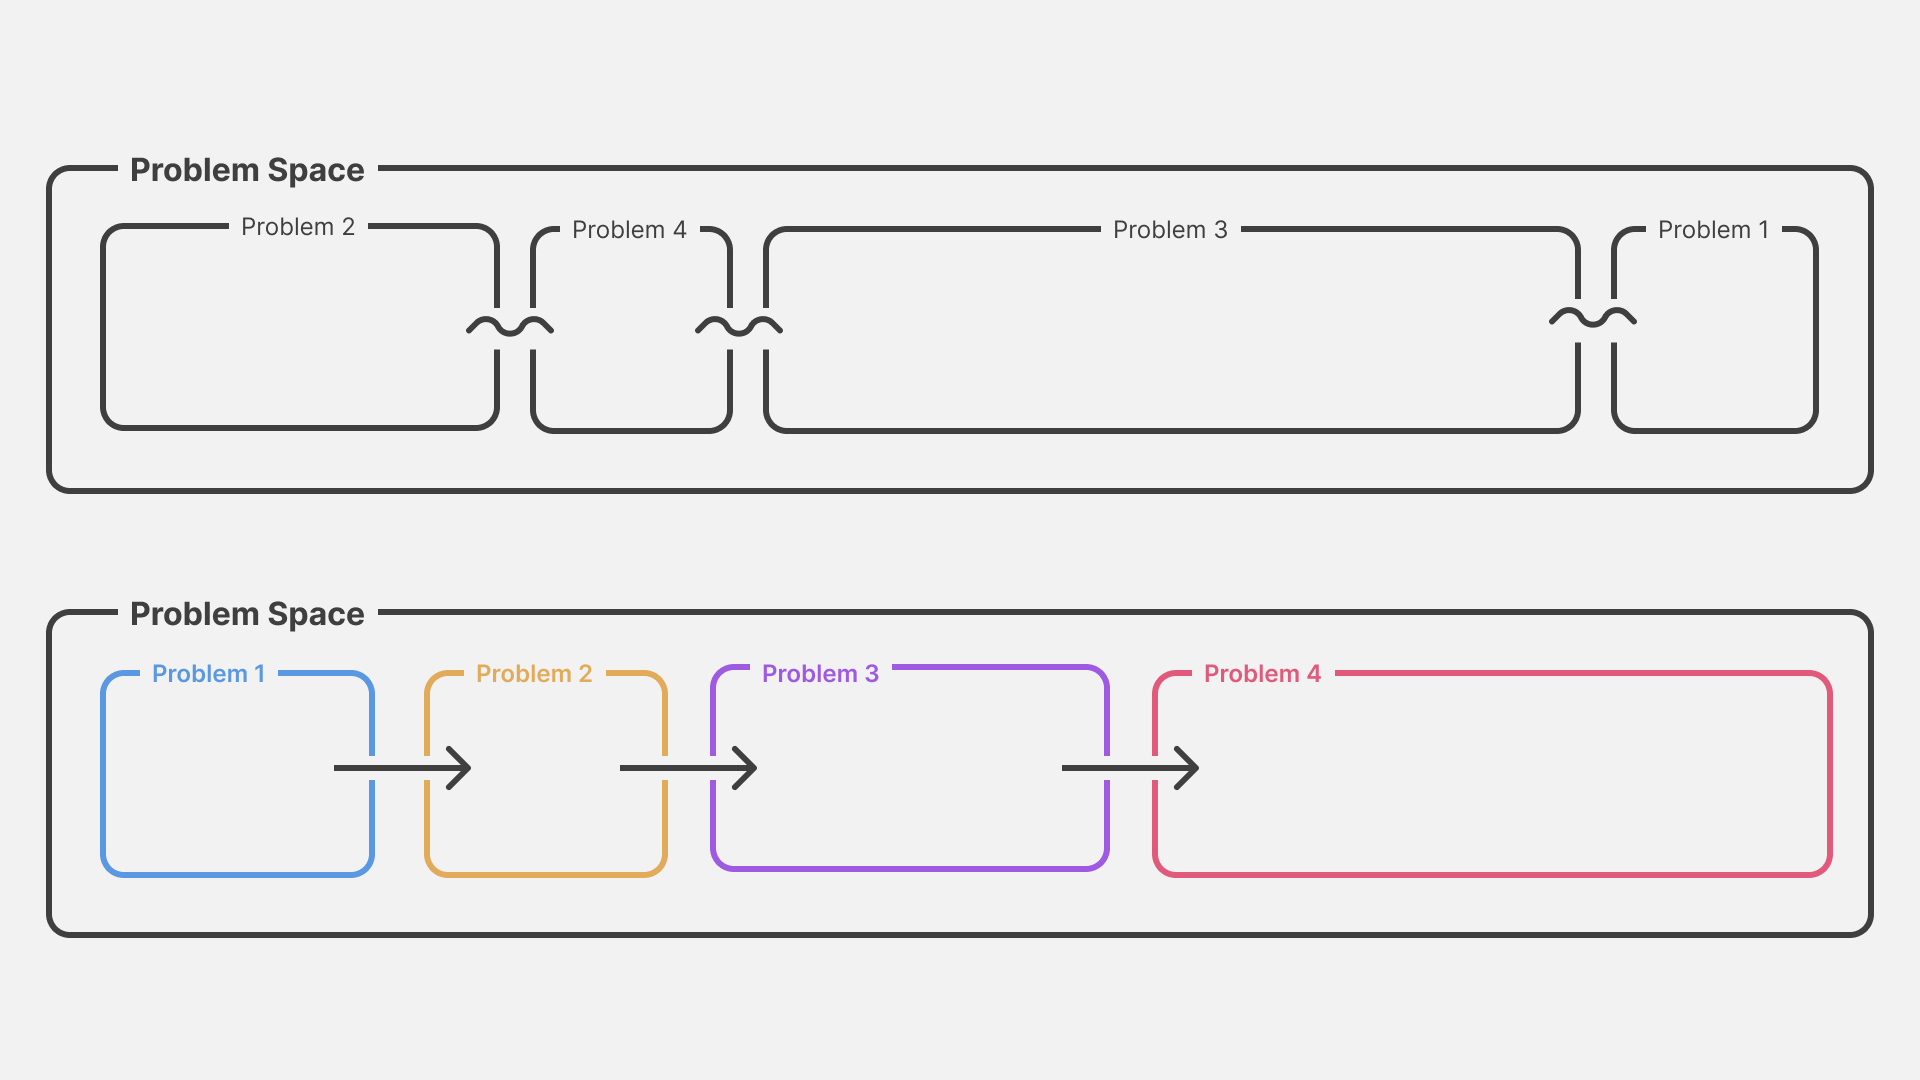
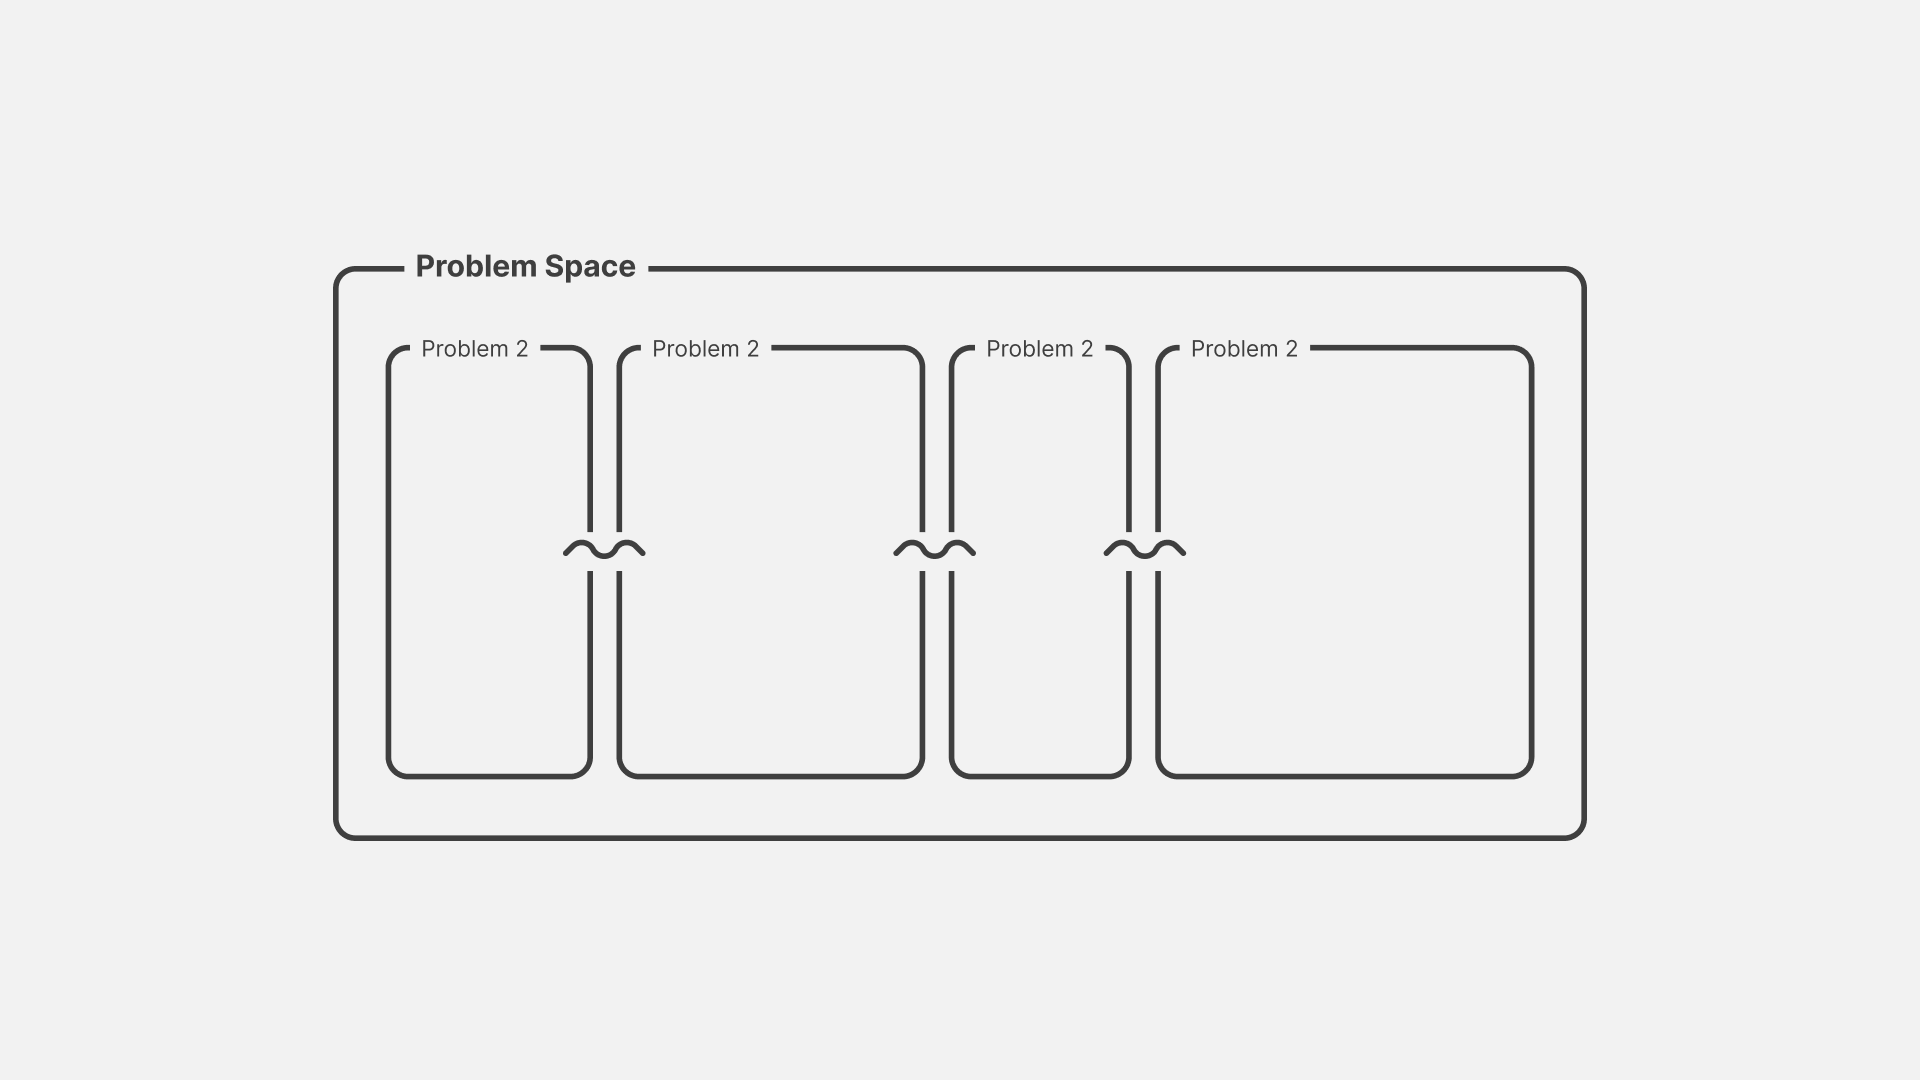
replaced time stamp with Intl API instead of the weather hack

diff --git a/components/header.js b/components/header.js
@@ -1,5 +1,4 @@
-import { identity } from "lodash";
-import React, { useState, useEffect } from "react";
+import React from "react";
 
 function DarkMode() {
   const [mode, setMode] = React.useState("light");
@@ -37,29 +36,21 @@ function DarkMode() {
   );
 }
 
-export function Amsterdam() {
-  const [weather, setTime] = useState({});
-  useEffect(() => {
-    const fetchTime = async (city) => {
-      try {
-        const weatherReq = await fetch(
-          `https://api.weatherapi.com/v1/forecast.json?key=ee94006c9bb74ce892f181126211305&q=${city}&days=1&aqi=no&alerts=no`
-        );
-        const timeData = await weatherReq.json();
-        setTime({
-          time: timeData.location.localtime + " " + timeData.location.name,
-        });
-      } catch {}
-    };
-    fetchTime("Amsterdam");
-  }, []);
-  return <small>{weather.time}</small>;
+export function AmsterdamTime() {
+  const TimeFomatter = new Intl.DateTimeFormat("en-GB", {
+    timeZone: "Europe/Amsterdam",
+    hour: "numeric",
+    minute: "numeric",
+    weekday: "short",
+    hour12: false,
+  }).format();
+  return <small>{TimeFomatter}, Amsterdam</small>;
 }
 
 const Header = () => (
   <header>
     <div className="flex">
-      <Amsterdam />
+      <AmsterdamTime />
     </div>
 
     <DarkMode />

diff --git a/posts/tools-methods-for-gaining-empathy.md b/posts/tools-methods-for-gaining-empathy.md
@@ -14,15 +14,17 @@ Through this case study blog post I'll guide you through the internal tools and 
 
 Being paired with a Product Manager on an initiative is a common practice in Miro. It's like a small start-up, in a start-up. We do everything together to push things forward. Once the area of work is clear, we can begin digging into the problem space to define how and where we can start.
 
+![Unstructured problem space](../../empathy-tools-1.png)
+
 We take multiple problems and try to arrange and group them in a way that makes sense from experience, implementation, and investment points of view. Generating the first problem definition is serving us as a stepping stone in the problem area.
 
-![Empahty tools image 1](../../empathy-tools-1.png)
+![Structured problem space](../../empathy-tools-1.1.png)
 
-##### Problem area
+##### Problem space
 
 Enterprise admins do not have enough management and control features over applications in their organization.
 
-##### Problem definition
+##### Problem definition (#)
 
 Organization and team admins lack app management controls that are needed for secure app installation and usage.
 
@@ -36,7 +38,7 @@ Gaining empathy will give us more insights into the emotional and practical spec
 
 But how do you build that persona? In the same way as with everything unknown, we start asking questions. You see the screenshot below of the questions that I generated only regarding the admins in the context of app management.
 
-![Empahty tools image 1](../../empathy-tools-4.jpg)
+![Empahty tools image 4](../../empathy-tools-4.jpg)
 
 ##### Help Center
 
@@ -45,6 +47,8 @@ On the general questions, I always advise going through the Help Center of your 
 ##### Go through the tables
 
 Once the general questions are toggled, we can go to the qualitative unknowns. In Miro, that's quite easy. Collaboration with a Product Analyst may quickly draw up a Looker table with all relevant data. Looker is a Business Intelligence and Data Analytics Platform. With it, we start to understand the scale at which we are supposed to work. Knowing that certain organization may have more than 2000 teams and 10000 accounts put your design and controls in a different direction. We should look for scalable controls which allow proper selection, sorting, and filtration to be accessible.
+
+![Empahty tools image 5](../../empathy-tools-5.png)
 
 ##### Connect with the CSM
 
